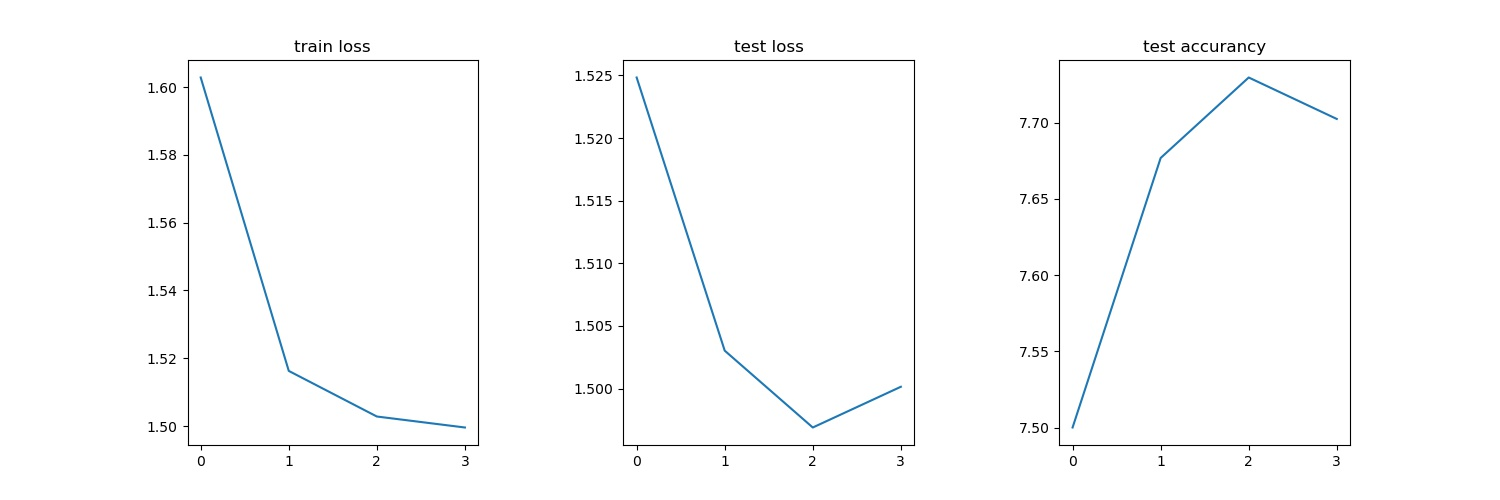
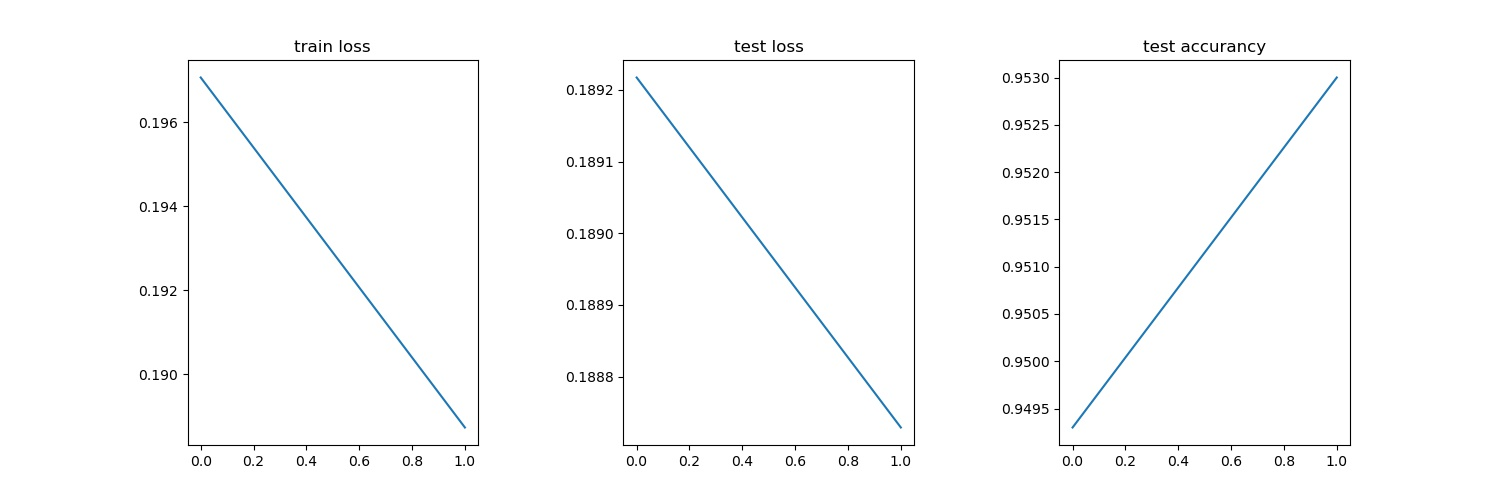
1

diff --git a/test.py b/test.py
@@ -6,10 +6,8 @@ import torchvision.transforms as transforms
 import numpy as np
 import argparse
 import matplotlib.pyplot as plt
-<<<<<<< HEAD
 import random
-=======
->>>>>>> 00891b63f4eb851f01af760e8c48b6c5d3475845
+
 
 from tqdm import tqdm
 BATCH_SIZE = 8
@@ -28,26 +26,6 @@ def load_data():
 # class conv_net(nn.Module):
 #     def __init__(self):
 
-def plot_curve(idx, data1,data2,data3):
-    fig = plt.figure(figsize=(15,5))
-    
-    ax_train_loss = fig.add_subplot(1,3,1)
-    ax_train_loss.set_title("train loss")
-    ax_train_loss.plot(idx,data1)
-    
-    ax_acc = fig.add_subplot(1,3,3)
-    ax_acc.set_title("test accurancy")
-    ax_acc.plot(idx,data3)
-    
-    ax_val_loss = fig.add_subplot(1,3,2)
-    ax_val_loss.set_title("test loss")
-    ax_val_loss.plot(idx,data2)
-    
-    plt.subplots_adjust(wspace=0.5)
-    
-    plt.savefig("./train_process.jpg")
-    plt.close(fig)   
-
 class MLP_net(nn.Module):
     def __init__(self, depth, dims, dropoutP):
         super().__init__()
@@ -62,14 +40,8 @@ class MLP_net(nn.Module):
             if l<depth-1:
                 self.layer.append( self.make_layer(dims[l],dims[l+1]))
         self.middle = nn.Sequential(*self.layer)
-<<<<<<< HEAD
         self.output = nn.Sequential(nn.Linear(dims[-1],10),nn.Softmax(dim=1))
         # self.init_weights()
-=======
-        self.output = nn.Sequential(nn.Linear(dims[-1],10))
-                                # nn.Softmax(dim=1))
-        self.init_weights()
->>>>>>> 00891b63f4eb851f01af760e8c48b6c5d3475845
 
     def make_layer(self,input_ch, output_ch):
         l = nn.Sequential(nn.Linear(input_ch,output_ch),
@@ -124,14 +96,14 @@ def main():
 
     device = torch.device("cuda:7") if torch.cuda.is_available() else "cpu"
     print(device)
-    model = MLP_net(3,[512,1024,512],0.1)
+    model = MLP_net(2,[512,512],0.1)
     model.to(device)
     loss_fn = nn.CrossEntropyLoss()
     optimizer = torch.optim.SGD(model.parameters(), lr = 0.01, momentum=0.9, weight_decay=0.0005)
     examples = enumerate(test_loader)
     batch_idx, (example_data, example_targets) = next(examples)
     print(example_targets)
-    print(example_data)
+    print(example_data.shape)
     epochs=64
     ax_epoch = []
     ax_trainloss = []
@@ -168,15 +140,15 @@ def main():
                 test_loss += loss.item()
 
         print("train epoch [{}/{}]  train_loss:{:.3f} test_loss:{:.3f} accurancy:{:.3f}".format(
-                                    epoch+1, epochs, train_loss/(train_num*8),test_loss/(test_num*8), acc/(test_num*8)))
+                                    epoch+1, epochs, train_loss/(train_num*BATCH_SIZE),test_loss/(test_num*BATCH_SIZE), acc/(test_num*BATCH_SIZE)))
         if acc >= best_acc:
             best_acc = acc
             torch.save(model, "./best_pt.pt")
         torch.save(model,"./last_pt.pt")
 
-        ax_trainloss.append( train_loss/train_num)
-        ax_testloss.append(test_loss/test_num)
-        ax_acc.append(acc/test_num)
+        ax_trainloss.append( train_loss/(train_num*BATCH_SIZE))
+        ax_testloss.append(test_loss/(test_num*BATCH_SIZE))
+        ax_acc.append(acc/(test_num*BATCH_SIZE))
         ax_epoch.append(epoch)
         plot_curve(ax_epoch,ax_trainloss,ax_testloss,ax_acc)
 
